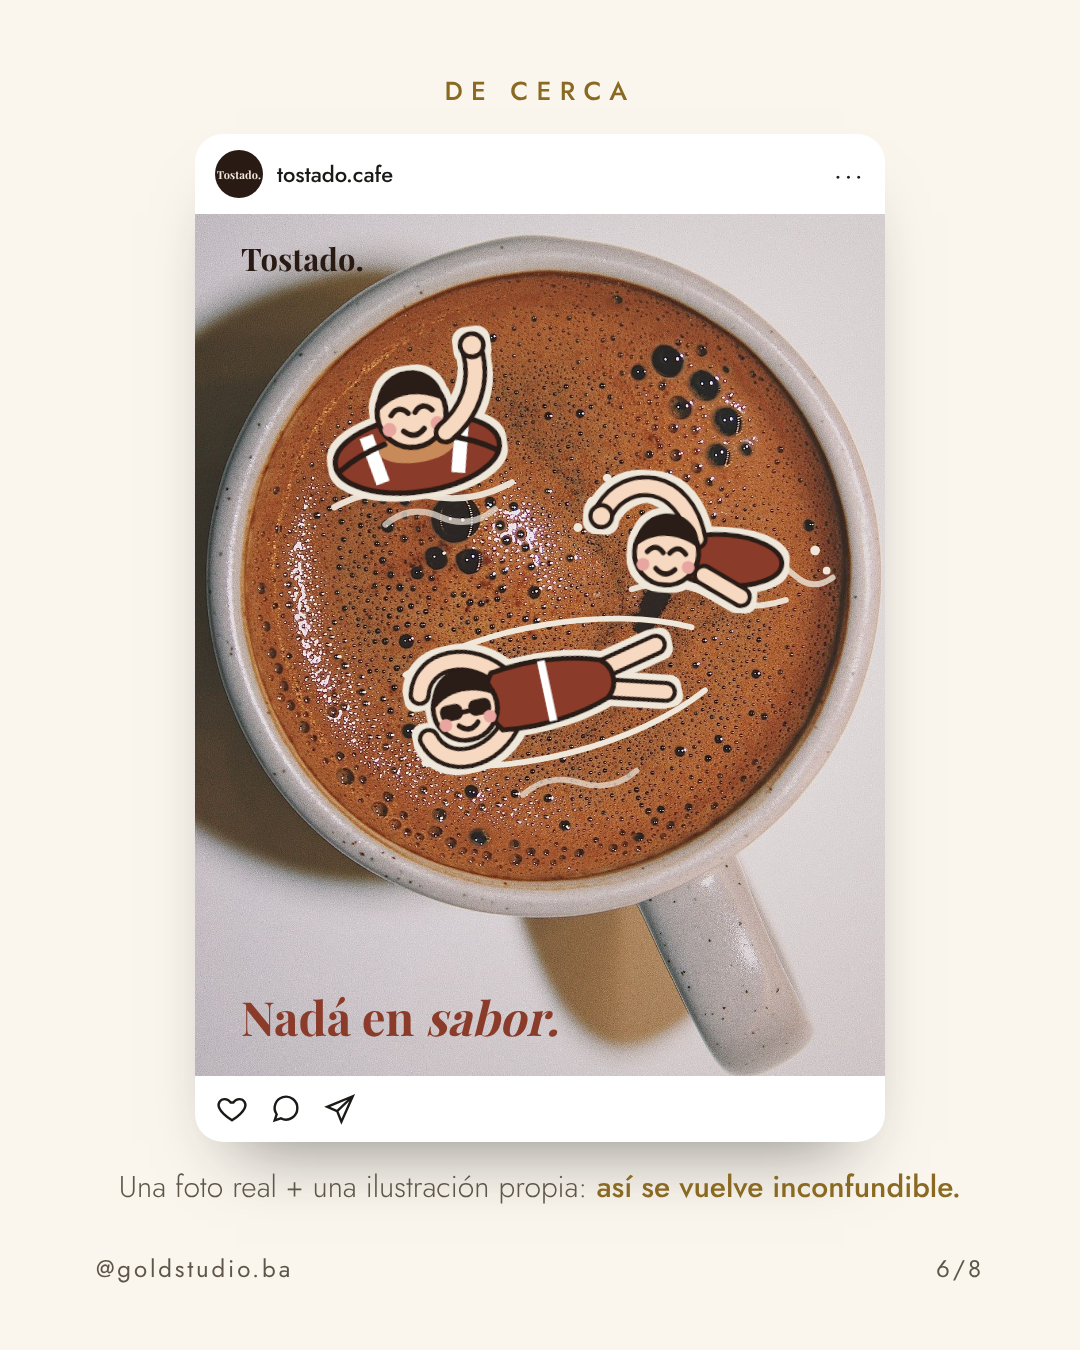
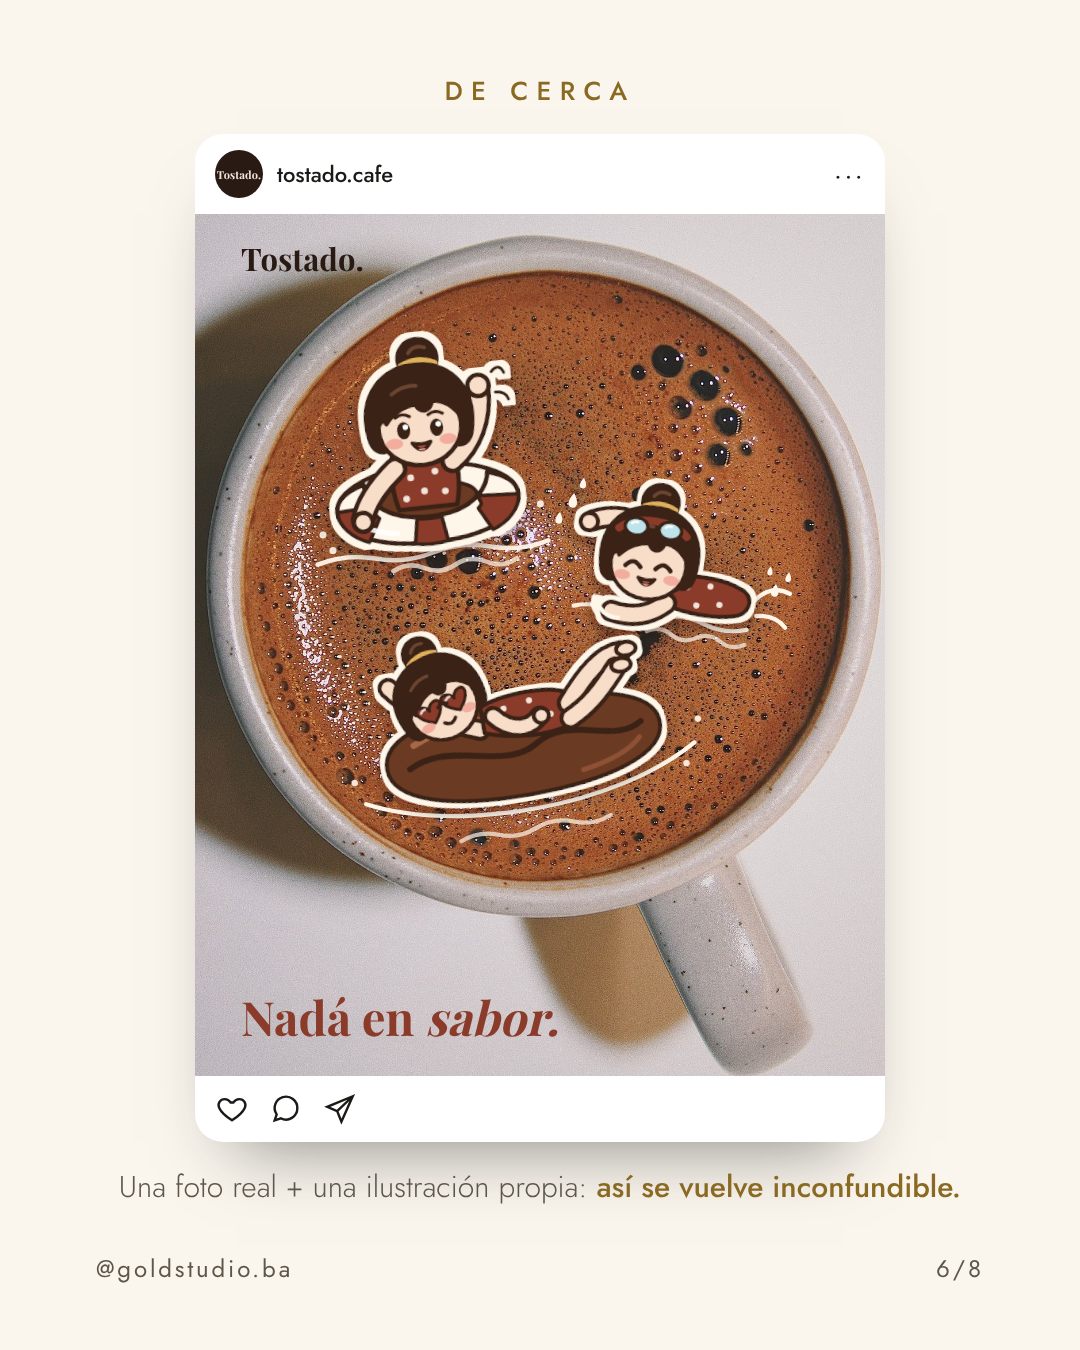
Carrusel de café: personaje nuevo más elaborado, en tres poses sobre la foto
Claude-Session: https://claude.ai/code/session_01MqSuY797qLSbTTpQyvUeTv

Changed region(s): [[0.3056, 0.2178, 0.7639, 0.6222]]

diff --git a/contenido/scripts/personaje_cafe.py b/contenido/scripts/personaje_cafe.py
@@ -1,0 +1,99 @@
+"""Personaje de Tostado (chica con flequillo y rodete) nadando en el café, en distintas poses.
+Cada pose devuelve SVG en coordenadas locales (cabeza de radio ~22 centrada en 0,0)."""
+LN, HAIR, HAIR2, SK, SK2, BLU = '#3A2318', '#3B2418', '#6B4532', '#F8DEC9', '#EDC2A6', '#F2A497'
+SUIT, SUIT2, CREAM, GOLD = '#8A3B2A', '#A9503C', '#FFF6EA', '#E0B15C'
+W = 2.2
+st = lambda w=W, c=LN: f'stroke="{c}" stroke-width="{w}" stroke-linecap="round" stroke-linejoin="round"'
+
+def eyes(kind='open'):
+    if kind == 'happy':   # ojitos cerrados de felicidad
+        return f'<path d="M-12 5 q4 -5 8 0 M4 5 q4 -5 8 0" fill="none" {st(2.4)}/>'
+    if kind == 'sun':     # anteojos de sol en forma de corazón
+        heart = lambda x: (f'<path d="M{x} 9 C{x-9} 3 {x-9} -3 {x-4.5} -2.5 C{x-2} -2.3 {x} 0 {x} 1.5 C{x} 0 {x+2} -2.3 {x+4.5} -2.5 C{x+9} -3 {x+9} 3 {x} 9Z" fill="{SUIT}" {st(1.8)}/>'
+                           f'<path d="M{x-5} 0.5 q1.5 -1.5 3 -1" fill="none" stroke="#fff" stroke-width="1.3" stroke-linecap="round" opacity=".8"/>')
+        return heart(-8) + heart(8) + f'<path d="M-3 2 q3 -2 6 0" fill="none" {st(1.8)}/>'
+    return ''.join(f'<ellipse cx="{x}" cy="4" rx="3.2" ry="4.2" fill="{LN}"/><circle cx="{x+1}" cy="2.4" r="1.3" fill="#fff"/>'
+                   f'<path d="M{x-3.5} -2.5 q3.5 -2.4 7 0" fill="none" {st(1.6)}/>' for x in (-8, 8))
+
+def head(eye='open', mouth='smile', goggles=False):
+    m = {'smile': f'<path d="M-3.5 11.5 q3.5 3.5 7 0" fill="none" {st(2)}/>',
+         'open': f'<path d="M-4.5 10.5 q4.5 7 9 0 q-4.5 1.5 -9 0Z" fill="#B5574A" {st(1.8)}/><path d="M-2 13.5 q2 1.6 4 0" fill="#F2A497"/>',
+         'o': f'<ellipse cx="0" cy="12.5" rx="2.6" ry="3" fill="#B5574A" {st(1.6)}/>'}[mouth]
+    g = (f'<path d="M-18 -14 C-10 -22 10 -22 18 -14" fill="none" stroke="{SUIT}" stroke-width="4" stroke-linecap="round"/>'
+         + ''.join(f'<ellipse cx="{x}" cy="-16" rx="6" ry="4.6" fill="#BFE3EA" {st(1.8)}/><path d="M{x-3} -17 q2 -2 4 -1" fill="none" stroke="#fff" stroke-width="1.2"/>' for x in (-9, 9))) if goggles else ''
+    return (f'<circle cx="2" cy="-30" r="9.5" fill="{HAIR}" {st()}/><path d="M-2 -33 q3 -4 8 -2" fill="none" stroke="{HAIR2}" stroke-width="1.8" stroke-linecap="round"/>'
+            f'<path d="M-6 -27 q8 -4 16 0" fill="none" stroke="{GOLD}" stroke-width="3.2" stroke-linecap="round"/>'           # gomita dorada
+            f'<path d="M-25 6 C-29 -16 -14 -28 0 -27 C15 -28 29 -16 25 6 C24 13 19 15 16 12 L-16 12 C-19 15 -24 13 -25 6Z" fill="{HAIR}" {st()}/>'
+            f'<ellipse cx="0" cy="3" rx="20" ry="18.5" fill="{SK}" {st()}/>'
+            f'<path d="M-21 2 C-22 -14 -10 -21 1 -20 C13 -21 22 -13 21 1 C17 -6 12 -9 7 -9 C6 -4 1 -3 -1 -8 C-6 -8 -12 -5 -16 0 C-17 -3 -18 -2 -21 2Z" fill="{HAIR}" {st()}/>'
+            f'<path d="M-12 -14 q6 -4 12 -3" fill="none" stroke="{HAIR2}" stroke-width="1.8" stroke-linecap="round"/>'
+            + eyes(eye) + f'<ellipse cx="-13" cy="10" rx="4.2" ry="2.6" fill="{BLU}" opacity=".85"/><ellipse cx="13" cy="10" rx="4.2" ry="2.6" fill="{BLU}" opacity=".85"/>'
+            + m + g)
+
+def arm(d, w=7.5):
+    return (f'<path d="{d}" fill="none" stroke="{LN}" stroke-width="{w+2*W}" stroke-linecap="round" stroke-linejoin="round"/>'
+            f'<path d="{d}" fill="none" stroke="{SK}" stroke-width="{w}" stroke-linecap="round" stroke-linejoin="round"/>')
+def hand(x, y, r=4.6): return f'<circle cx="{x}" cy="{y}" r="{r}" fill="{SK}" {st()}/>'
+def dots(pts, r=1.7): return ''.join(f'<circle cx="{x}" cy="{y}" r="{r}" fill="{CREAM}" opacity=".9"/>' for x, y in pts)
+
+def wave(x, y, w, o=.95, sw=2.2):
+    return f'<path d="M{x-w} {y} q{w/4} -4 {w/2} 0 t{w/2} 0 t{w/2} 0 t{w/2} 0" fill="none" stroke="{CREAM}" stroke-width="{sw}" stroke-linecap="round" opacity="{o}"/>'
+def drops(pts): return ''.join(f'<path d="M{x} {y-r*1.6} C{x+r} {y-r*.2} {x+r} {y+r} {x} {y+r} C{x-r} {y+r} {x-r} {y-r*.2} {x} {y-r*1.6}Z" fill="{CREAM}"/>' for x, y, r in pts)
+
+# --- Pose 1: en un salvavidas inflable a rayas, saludando ---
+def salvavidas():
+    ring_back = f'<ellipse cx="0" cy="40" rx="44" ry="19" fill="{CREAM}" {st()}/><ellipse cx="0" cy="38" rx="24" ry="8.5" fill="#6B3A22" {st(1.8)}/>'
+    torso = (f'<path d="M-15 16 C-17 26 -16 36 -14 42 L14 42 C16 36 17 26 15 16 C8 21 -8 21 -15 16Z" fill="{SUIT}" {st()}/>'
+             + dots([(-7, 27), (5, 25), (-1, 34), (9, 35), (-10, 37)], 1.6))
+    stripes = ''.join(f'<path d="M{a}" fill="{SUIT}" {st(1.8)}/>' for a in [
+        '-44 40 C-44 47 -38 53 -30 56 L-24 45 C-27 43 -25 41 -24 39 Z', '30 56 C38 53 44 47 44 40 L24 39 C25 41 27 43 24 45 Z',
+        '-8 59 C-3 60 3 60 8 59 L6 47 C2 47.5 -2 47.5 -6 47 Z'])
+    ring_front = (f'<path d="M-44 40 C-44 52 -24 59 0 59 C24 59 44 52 44 40 C44 34 38 30 30 28 C30 33 24 46.5 0 46.5 C-24 46.5 -30 33 -30 28 C-38 30 -44 34 -44 40Z" fill="{CREAM}" {st()}/>'
+                  + stripes + f'<path d="M-34 47 q8 5 18 6" fill="none" stroke="#fff" stroke-width="2.4" stroke-linecap="round" opacity=".9"/>')
+    arms = (arm('M-14 22 C-24 30 -30 38 -32 45') + hand(-32, 46)
+            + arm('M14 21 C24 14 30 2 30 -12') + hand(30, -14, 5.2)
+            + f'<path d="M37 -20 q4 -4 6 1 M38 -10 q5 0 6 4" fill="none" {st(1.6)}/>')
+    agua = wave(0, 64, 56) + wave(10, 71, 30, .7) + dots([(-52, 50), (54, 46), (-48, 58)])
+    return agua, ring_back + torso + ring_front + arms + head('open', 'open')
+
+# --- Pose 2: tirada sobre una medialuna inflable, con anteojos de corazón ---
+def grano():
+    """Tirada sobre un grano de café inflable, con anteojos de corazón."""
+    G = 'M-72 14 C-72 -4 -40 -10 0 -10 C40 -10 74 -4 74 14 C74 32 40 40 0 40 C-40 40 -72 32 -72 14Z'
+    bean = (f'<path d="{G}" fill="#6B3A22" {st()}/>'
+            f'<path d="M-60 16 C-36 4 -12 26 8 14 C28 2 48 22 64 12" fill="none" stroke="#3A2016" stroke-width="3.2" stroke-linecap="round"/>'
+            f'<path d="M-56 4 C-40 -3 -20 -4 -6 -3" fill="none" stroke="#A7684A" stroke-width="3.4" stroke-linecap="round"/>'
+            f'<path d="M30 32 C44 30 56 26 62 20" fill="none" stroke="#8E5136" stroke-width="2.6" stroke-linecap="round"/>')
+    body = (arm('M-20 2 C-36 -4 -54 -14 -64 -28', 7)
+            + f'<path d="M-18 -10 C-4 -15 18 -15 28 -10 C32 -5 32 3 28 7 C18 11 -4 10 -18 4Z" fill="{SUIT}" {st()}/>'
+            + dots([(-6, -7), (8, -9), (2, 2), (18, 0)], 1.6)
+            + arm('M-12 -4 C-4 6 6 6 12 0', 6.5) + hand(13, 0, 4)
+            + arm('M28 -4 C40 -18 50 -26 60 -26', 7.5) + arm('M28 4 C42 -2 50 -12 56 -18', 7.5)
+            + f'<ellipse cx="63" cy="-27" rx="5.2" ry="3.6" fill="{SK}" {st()}/><ellipse cx="59" cy="-19" rx="5.2" ry="3.6" fill="{SK}" {st()}/>')
+    cara = f'<g transform="translate(-38 -16) rotate(-18) scale(.92)">{head("sun", "smile")}</g>'
+    agua = (f'<path d="M-86 30 C-40 54 44 54 90 28" fill="none" stroke="{CREAM}" stroke-width="2.2" stroke-linecap="round"/>'
+            + wave(0, 58, 40, .7) + dots([(94, 16), (-90, 18), (84, 38)]))
+    return agua, bean + body + cara
+
+# --- Pose 3: nadando con antiparras, brazo afuera y salpicadura ---
+def nado():
+    body = (f'<path d="M6 12 C16 4 40 4 52 10 C58 14 56 22 48 24 C36 27 16 26 6 20Z" fill="{SUIT}" {st()}/>'
+            + dots([(22, 12), (34, 10), (40, 19), (28, 21)], 1.6)
+            + arm('M14 10 C10 -14 -12 -26 -32 -16') + hand(-34, -15)
+            + arm('M12 22 C4 30 -6 32 -16 30') + f'<path d="M-24 26 q4 8 12 7" fill="none" stroke="{CREAM}" stroke-width="2.2" stroke-linecap="round"/>')
+    agua = (wave(10, 30, 46) + wave(30, 38, 26, .7)
+            + drops([(-44, -24, 3), (-40, -34, 2.2), (-50, -14, 2.4), (68, 8, 2.6), (74, 0, 2), (64, -2, 1.8)])
+            + f'<path d="M58 14 q8 -10 18 -6 M60 22 q10 -2 16 4" fill="none" stroke="{CREAM}" stroke-width="2.2" stroke-linecap="round"/>')
+    return agua, body + head('happy', 'open', goggles=True)
+
+POSES = {'salvavidas': salvavidas, 'grano': grano, 'nado': nado}
+
+def sticker_filter(fid='stk', color=CREAM, r=2.2):
+    return (f'<filter id="{fid}" x="-30%" y="-30%" width="160%" height="160%"><feMorphology in="SourceAlpha" operator="dilate" radius="{r}" result="d"/>'
+            f'<feFlood flood-color="{color}"/><feComposite in2="d" operator="in" result="o"/>'
+            f'<feDropShadow dx="0" dy="3" stdDeviation="3" flood-color="#1a0d06" flood-opacity=".35" in="o" result="s"/>'
+            f'<feMerge><feMergeNode in="s"/><feMergeNode in="o"/><feMergeNode in="SourceGraphic"/></feMerge></filter>')
+
+def place(name, x, y, sc, rot=0, fid='stk'):
+    agua, cuerpo = POSES[name]()
+    return f'<g transform="translate({x} {y}) rotate({rot}) scale({sc})">{agua}<g filter="url(#{fid})">{cuerpo}</g></g>'

diff --git a/contenido/scripts/carrusel_feed_cafe.py b/contenido/scripts/carrusel_feed_cafe.py
@@ -73,40 +73,13 @@ def p_marca():
             f'<div style="position:absolute;inset:0;display:flex;flex-direction:column;align-items:center;justify-content:center;gap:8px">{tostado(CRE, 52)}'
             f'<span style="font-size:14px;letter-spacing:.3em;color:{MAN}">CAFÉ DE ESPECIALIDAD</span></div></div>')
 # El personaje de Tostado nadando en una foto real, en distintas poses (coordenadas de la foto 1200×1877)
-SK = '#F6D9C0'
-def _limb(d): return (f'<path d="{d}" fill="none" stroke="{ESP}" stroke-width="7" stroke-linecap="round"/>'
-                      f'<path d="{d}" fill="none" stroke="{SK}" stroke-width="4.2" stroke-linecap="round"/>')
-def _wave(x, y, w, o=.95): return f'<path d="M{x-w} {y} q{w/2} -5 {w} 0 t{w} 0" fill="none" stroke="{CRE}" stroke-width="1.8" stroke-linecap="round" opacity="{o}"/>'
-def _drops(pts): return ''.join(f'<circle cx="{x}" cy="{y}" r="{r}" fill="{CRE}"/>' for x, y, r in pts)
-# cada pose devuelve (agua, personaje): el agua va sin contorno, el personaje con borde crema tipo sticker
-def pose_salvavidas():
-    agua = _wave(0, 20, 26) + _wave(4, 27, 16, .7)
-    return agua, I.swimmer_ring(0, 0, BOR).replace(I.ripple(0, 14, 22), '') + _limb('M9 3 C17 -2 21 -10 20 -19') + f'<circle cx="20" cy="-21" r="3.4" fill="{SK}" stroke="{ESP}" stroke-width="1.4"/>'
-def pose_plancha():
-    agua = (f'<path d="M-16 -14 C10 -24 50 -22 74 -10 M-16 14 C10 24 50 22 74 10" fill="none" stroke="{CRE}" stroke-width="1.8" stroke-linecap="round"/>'
-            + _wave(30, 30, 18, .7))
-    cuerpo = (_limb('M14 -6 C6 -18 -10 -18 -13 -7') + _limb('M14 6 C6 18 -10 18 -13 7')
-              + _limb('M44 -3 L62 -7') + _limb('M44 3 L62 8')
-              + f'<path d="M10 -9 C22 -11 36 -9 44 -6 C48 -3 48 3 44 6 C36 9 22 11 10 9 C6 4 6 -4 10 -9Z" fill="{BOR}" stroke="{ESP}" stroke-width="1.6"/>'
-              + f'<path d="M26 -9.5 L26 9.5" stroke="#fff" stroke-width="2.4"/>' + I.face(0, 0, 10, glasses=True))
-    return agua, cuerpo
-def pose_crol():
-    agua = _wave(14, 12, 24) + _wave(40, 4, 12, .8) + _drops([(-24, -14, 1.8), (-28, -6, 1.4), (-20, -22, 1.3), (46, -4, 1.5), (50, 2, 1.2)])
-    cuerpo = (f'<ellipse cx="18" cy="1" rx="18" ry="8" fill="{BOR}" stroke="{ESP}" stroke-width="1.6"/>'
-              + _limb('M12 6 L24 12') + _limb('M9 -5 C4 -24 -14 -24 -20 -12')
-              + f'<circle cx="-21" cy="-10" r="3.4" fill="{SK}" stroke="{ESP}" stroke-width="1.4"/>' + I.face(0, 0, 10))
-    return agua, cuerpo
+import personaje_cafe as PJ
 def nada_svg(vb='0 230 1200 1500', texto=True):
-    flt = ('<filter id="stk" x="-20%" y="-20%" width="140%" height="140%"><feMorphology in="SourceAlpha" operator="dilate" radius="1.5" result="d"/>'
-           f'<feFlood flood-color="{CRE}"/><feComposite in2="d" operator="in" result="o"/><feMerge><feMergeNode in="o"/><feMergeNode in="SourceGraphic"/></feMerge></filter>')
-    def g(pose, x, y, sc, r=0):
-        agua, cuerpo = pose
-        return f'<g transform="translate({x} {y}) rotate({r}) scale({sc})">{agua}<g filter="url(#stk)">{cuerpo}</g></g>'
     t = (f'<text x="80" y="1660" font-family="XPlayfair" font-size="82" fill="{BOR}">Nadá en <tspan font-style="italic">sabor.</tspan></text>'
          f'<text x="80" y="330" font-family="XPlayfair" font-size="54" fill="{ESP}">Tostado.</text>') if texto else ''
-    return (f'<svg viewBox="{vb}" preserveAspectRatio="xMidYMid slice" style="position:absolute;inset:0;width:100%;height:100%"><defs>{flt}</defs>'
+    return (f'<svg viewBox="{vb}" preserveAspectRatio="xMidYMid slice" style="position:absolute;inset:0;width:100%;height:100%"><defs>{PJ.sticker_filter()}</defs>'
             f'<image href="{PX["taza_arriba"]}" x="0" y="0" width="1200" height="1877"/>'
-            + g(pose_salvavidas(), 380, 600, 6, -8) + g(pose_crol(), 820, 820, 5.6, 4) + g(pose_plancha(), 470, 1090, 5.6, -12) + t + '</svg>')
+            + PJ.place('salvavidas', 390, 590, 3.6, -6) + PJ.place('nado', 790, 830, 3.3, 8) + PJ.place('grano', 560, 1110, 3.3, -10) + t + '</svg>')
 def p_nada():
     return f'<div class="post">{nada_svg()}</div>'
 def p_entrega():

diff --git a/contenido/README.md b/contenido/README.md
@@ -15,6 +15,7 @@ Después se usa todo igual:
 - `scripts/caro_ejemplos.py`: carruseles de 1080×1350 (`render(nombre, láminas, css_extra)`).
 - `scratch/stories.py` (y `stories2..5.py`): historias de 1080×1920 sin emojis, con espacios vacíos para stickers.
 - `scripts/mocks.py`, `pack.py`, `mascota.py`, `yogi.py`, `ilus_cafe.py`: dibujos y maquetas reutilizables.
+- `scripts/personaje_cafe.py`: la chica de Tostado nadando en el café (poses: salvavidas, grano, nado) para poner sobre fotos.
 - `scripts/semana*.py`: lo que ya se publicó, como ejemplo.
 - `marca/`: logos, foto de perfil y paleta.
 - `scratch/pexels/`: fotos reales de Pexels (cafetería) que usa `carrusel_feed_cafe.py`.
